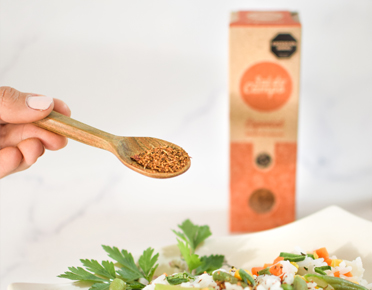
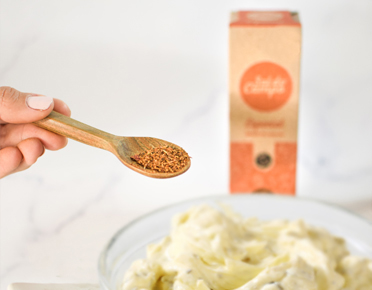
agregado de recetas

diff --git a/recetasAderezo.html b/recetasAderezo.html
@@ -1,0 +1,293 @@
+<!DOCTYPE html>
+<!--[if lt IE 7]>      <html lang="en" class="no-js lt-ie9 lt-ie8 lt-ie7"> <![endif]-->
+<!--[if IE 7]>         <html lang="en" class="no-js lt-ie9 lt-ie8"> <![endif]-->
+<!--[if IE 8]>         <html lang="en" class="no-js lt-ie9"> <![endif]-->
+<!--[if gt IE 8]><!--> <html lang="en" class="no-js"> <!--<![endif]-->
+    <head>
+        <!-- Mobile Specific Meta -->
+        <meta name="viewport" content="width=device-width, initial-scale=1">
+        <!-- Always force latest IE rendering engine -->
+        <meta http-equiv="X-UA-Compatible" content="IE=edge">
+        <!-- Meta Keyword -->
+        <meta name="keywords" content="one page, business template, single page, onepage, responsive, parallax, creative, business, html5, css3, css3 animation">
+        <!-- meta character set -->
+        <meta charset="utf-8">
+
+        <!-- Site Title -->
+        <title>Sal de Campo</title>
+        <link rel="icon" href="img/logo-SC.png" type="image/png" class="favicon">
+        <!--
+        Google Fonts
+        ============================================= -->
+        <link href="http://fonts.googleapis.com/css?family=Open+Sans:400,300,600,700" rel="stylesheet" type="text/css">	
+        
+        
+        <!--        
+        CSS
+        ============================================= -->
+        <!-- Fontawesome -->
+        <link rel="stylesheet" href="css/font-awesome.min.css">
+        <!-- Bootstrap -->
+        <link rel="stylesheet" href="css/bootstrap.min.css">
+        <!-- Fancybox -->
+        <link rel="stylesheet" href="css/jquery.fancybox.css">
+        <!-- owl carousel -->
+        <link rel="stylesheet" href="css/owl.carousel.css">
+        <!-- Animate -->
+        <link rel="stylesheet" href="css/animate.css">
+        <!-- Main Stylesheet -->
+        <link rel="stylesheet" href="css/main.css">
+        <!-- Main Responsive -->
+        <link rel="stylesheet" href="css/responsive.css">
+        <!-- Main Responsive-news -->
+        <link rel="stylesheet" href="css/responsive-news.css">
+        <!-- Ajustes -->
+        <link rel="stylesheet" href="css/new-style.css">
+        <!-- Productos -->
+        <link rel="stylesheet" href="css/productos.css">
+        <!-- Recetas -->
+        <link rel="stylesheet" href="css/recetas.css">
+
+        <!-- <link rel="stylesheet" href="css/recetas-extra.css"> -->
+		
+		
+		<!-- Modernizer Script for old Browsers -->
+        <script src="js/vendor/modernizr-2.6.2.min.js"></script>
+		
+
+		<div id="tienda-btn" style="display: none;">
+            <button class="boton-tienda btn btn-danger"><a href="#" class="text-btn"><img src="img/carritoLogo.png" alt="carrito Logo" class="carro">Tienda</a></button>
+        </div>
+    </head>
+	
+    <body>
+
+        <!--
+        Fixed Navigation
+        ==================================== -->
+        <header id="navigation" class="navbar-fixed-top">
+            <div class="container">
+
+                <div class="navbar-header">
+                    <!-- responsive nav button -->
+                    <button type="button" class="navbar-toggle" data-toggle="collapse" data-target=".navbar-collapse">
+                        <span class="sr-only">Toggle navigation</span>
+                        <span class="icon-bar"></span>
+                        <span class="icon-bar"></span>
+                        <span class="icon-bar"></span>
+                    </button>
+                    <!-- /responsive nav button -->
+                     
+
+                    <!-- logo -->
+                    <h1 class="navbar-brand">
+                        <a href="#home">
+                            <img src="img/logo-SC.png" alt="Sal de Campo Logo" class="logo-nav">
+                        </a>                        
+                    </h1>
+                    
+                    <!-- /logo -->
+                    
+                      <!-- Social Icons -->
+                      <div class="redes-nav" id="redesNav">
+                        
+                        <a class="icons-nav" href="https://www.instagram.com/saldecampo/" target="_blank">
+                            <img class="ig" src="img/icons/icons-instagram-recetas.png" alt="instagram">
+                        </a>
+                        <a class="icons-nav" href="https://www.tiktok.com/@saldecampo?lang-es" target="_blank">
+                            <img class="tk" src="img/icons/icons-tik-tok-recetas.png" alt="tiktok">
+                        </a>
+                        <a class="icons-nav" href="https://https://www.facebook.com/saldecampo/" target="_blank">
+                            <img class="fb" src="img/icons/icons-facebook-recetas.png" alt="facebook">
+                        </a>
+                        <a class="icons-nav" href="https://walink.co/bd22ab" target="_blank">
+                            <img class="wts" src="img/icons/icons-whatsapp-recetas.png" alt="whatsapp">
+                        </a>
+                        
+                    </div>
+            <!-- /Social Icons -->
+
+
+                    </div>
+
+                    <!-- main nav -->
+                    <nav class="collapse navigation navbar-collapse navbar-right" role="navigation">
+                        <ul id="nav" class="nav navbar-nav">
+                            <li class="current"><a href="index.html#home" id="nav-text">Inicio</a></li>
+                            <li><a href="index.html#about" id="nav-text">Nosotros</a></li>
+                            <li><a href="index.html#producto" id="nav-text">Productos</a></li>
+                            <li><a href="index.html#idea" id="nav-text">Ideas y Recetas</a></li>                            
+                            <li><a href="index.html#contact" id="nav-text">Contacto</a></li>
+                            <li class="tienda"><button class="boton btn btn-danger"><a href="#" class="text-btn"><img src="img/carritoLogo-Recetas.png" alt="carrito Logo" class="carro">Tienda</a></button></li>
+                        </ul>
+                        
+                    </nav>
+                    <!-- /main nav -->
+                </div>
+
+            </div>
+        </header>
+        <!--
+        End Fixed Navigation
+        ==================================== -->
+
+
+        <!--
+        Home Slider
+        ==================================== -->
+        <section id="home">  
+                <div>
+                    <!-- <div class="recetas-bg" style="background-image: url('img/slider/bg1a.jpg')" >  -->
+                        <div class="receta-area">
+                            <div class="container">
+                                <h1 class="titulo-ideas">Ideas & Recetas</h1>
+                                
+                                <div class="container-recetas">
+                                    <div class="col-md-4 col-sm-3 wow fadeInRight detalles-items" id="tips">
+                                        <div class="recetas-details reloj">
+                                            <br><span class="text-detail">Tiempo de Preparación <img class="icon-detalles" src="img/icons/time-icon.png" alt="reloj"></span>
+                                            <p class="text-detail">15 a 20 min</p><br> 
+                                        </div>
+                                        <!-- <div class="recetas-details porcion">
+                                            <br><span class="text-detail">Porciones <img class="icon-detalles" src="img/icons/porcion-icon.png" alt="reloj"></span>
+                                            <p class="text-detail">Rinde 8 porciones</p><br> 
+                                        </div> -->
+                                        <div class="recetas-details dificultad">
+                                            <br><span class="text-detail">Dificultad <img class="icon-detalles" src="img/icons/dificultad-icon.png" alt="reloj"></span>
+                                            <p class="text-detail">Fácil</p><br> 
+                                        </div>
+                                      
+                
+                                        
+                                    </div> <!-- .col-md-4 -->
+                                    <div class="image">
+                                        <img src="img/recetas/especial-2.jpg" alt="receta 1">
+                                    </div>
+                                    <div class="content content-recetas">
+                                        <h2>Aderezo Saborizado</h2>
+                                        <h4>Ingredientes:</h4>
+                                        <ul id="ingredientes-responsive">
+                                            <li class="ingrediente">1 o 2 cucharadas soperas al ras de Sal de Campo Especial</li>
+                                            <li class="ingrediente">1 pote de queso crema o de mayonesa</li>
+                                            <!-- <li class="ingrediente">6 cucharadas de Aceite</li> -->
+                                            <!-- <li class="ingrediente">ingrediente 500 ml</li>
+                                            <li class="ingrediente">ingrediente a gusto</li>
+                                            <li class="ingrediente">ingrediente 250 gr</li>
+                                            <li class="ingrediente">ingrediente 4 un</li> -->
+                                        </ul>
+                                        <h4>Preparación:</h4>
+                                        <ol id="preparación-respinsive">
+                                            <p class="ingrediente">
+                                                Agregar la Sal de Campo Especial a un pote de queso crema o de mayonesa y mezclar bien. .
+                                            </p><br>
+                                            <p class="ingrediente">
+                                                Dejar reposar 15 a 20 minutos para que se hidraten las bien las especias y remover nuevamente
+                                            </p><br>
+                                            <p class="ingrediente">                                                
+                                                Exquisito aderezo saborizado para preparar un rico sándwich o como un dip para untar con grisines
+                                            </p>
+                                            <!-- <p class="ingrediente">                                                
+                                               <span class="opcional"> Opción Agridulce:</span> Agregar 1 o 2 cucharaditas de miel
+                                            </p><br> -->
+                                            <!-- <li class="ingrediente">Preparar los ingredientes</li>
+                                            <li class="ingrediente">Mezclar los ingredientes</li>
+                                            <li class="ingrediente">Armar el sandwich</li>
+                                            <li class="ingrediente">Disfrutar</li> -->
+                                        </ol>
+                                    </div>
+                                </div>
+                            </div>
+                        </div>                      
+                       
+                    <!-- </div>     -->
+               
+            </div>
+            
+        </section>
+       
+
+        <!--
+        End #home Slider
+        ========================== -->
+       
+</body>
+ <!--
+        #footer
+        ========================== -->
+        <footer id="footer" class="text-center">
+            <div class="container">
+                <div class="row">
+                    <div class="col-lg-12">
+
+                        <div class="footer-logo wow fadeInDown">
+                            <img src="img/logo.png" alt="logo">
+                        </div>
+
+                        <div class="footer-social wow fadeInUp">
+                            <h3>Encontranos en nuestras Redes</h3>
+                             <!-- Social Icons -->
+                        <div class="redes-nav" id="redes-footer">
+                            <a class="icons-nav" href="https://www.instagram.com/saldecampo/" target="_blank">
+                                <img class="ig" src="img/icons/icons-instagram.png" alt="instagram">
+                            </a>
+                            <a class="icons-nav" href="https://www.tiktok.com/@saldecampo?lang-es" target="_blank">
+                                <img class="tk" src="img/icons/icons-tik-tok.png" alt="tiktok">
+                            </a>
+                            <a class="icons-nav" href="https://https://www.facebook.com/saldecampo/" target="_blank">
+                                <img class="fb" src="img/icons/icons-facebook.png" alt="tiktok">
+                            </a>
+                            <a class="icons-nav" href="https://walink.co/bd22ab" target="_blank">
+                                <img class="wts" src="img/icons/icons-whatsapp.png" alt="whatsapp">
+                            </a>
+                        </div>
+            <!-- /Social Icons -->
+                        </div>
+
+                        <div class="copyright">
+
+                            <p class="p-copyright" >Theme by <a href="http://graphberry.com">GraphBerry.com</a> Developed by <a target="_blank" href="http://www.themefisher.com">Themefisher</a></p>
+                           
+                            <p>by <a href="http://saldecampo.com" target="_blank">Sal de Campo</a> Developed by <a target="_blank" href="http://lucasconti.netlify.app">Lucas Conti Developer</a></p>
+                        </div>
+
+                    </div>
+                </div>
+            </div>
+        </footer>
+        <!--
+        End #footer
+        ========================== -->
+
+
+        <!--
+        JavaScripts
+        ========================== -->
+        
+        <!-- main jQuery -->
+        <script src="js/vendor/jquery-1.11.1.min.js"></script>
+        <!-- Bootstrap -->
+        <script src="js/bootstrap.min.js"></script>
+        <!-- jquery.nav -->
+        <script src="js/jquery.nav.js"></script>
+        <!-- Portfolio Filtering -->
+        <script src="js/jquery.mixitup.min.js"></script>
+        <!-- Fancybox -->
+        <script src="js/jquery.fancybox.pack.js"></script>
+        <!-- Parallax sections -->
+        <script src="js/jquery.parallax-1.1.3.js"></script>
+        <!-- jQuery Appear -->
+        <script src="js/jquery.appear.js"></script>
+        <!-- countTo -->
+        <script src="js/jquery-countTo.js"></script>
+        <!-- owl carousel -->
+        <script src="js/owl.carousel.min.js"></script>
+        <!-- WOW script -->
+        <script src="js/wow.min.js"></script>
+        <!-- theme custom scripts -->
+        <!-- <script src="js/main.js"></script> -->
+        <!-- Filtro menú Galería -->
+        <script src="js/galeria-filtro.js"></script>
+        <!-- nav scroll -->
+        <script src="js/receta-nav.js"></script>
+    </body>
+</html>

diff --git a/index.html b/index.html
@@ -404,9 +404,9 @@
                 </figure>
                 <figure class="mix producto-item especial">
                     <img class="img-responsive" src="img/recetas/especial-2.jpg" alt="Producto Item">
-                    <a href="recetas.html" title="Title One" rel="portfolio" class="fancybox"><span class="plus"></span></a>
+                    <a href="recetasAderezo.html" title="Title One" rel="portfolio" class="fancybox"><span class="plus"></span></a>
                     <figcaption class="mask">
-                        <h3 class="receta-nombre">Awesome Image</h3>
+                        <h3 class="receta-nombre">Aderezo Saborizado</h3>
                         <span class="especial-span">Sal de Campo Especial</span>
                     </figcaption>
                 </figure>
